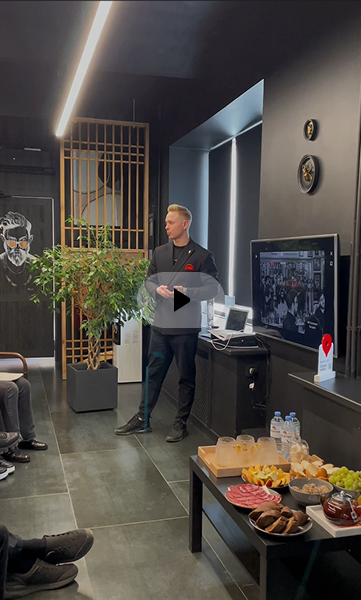
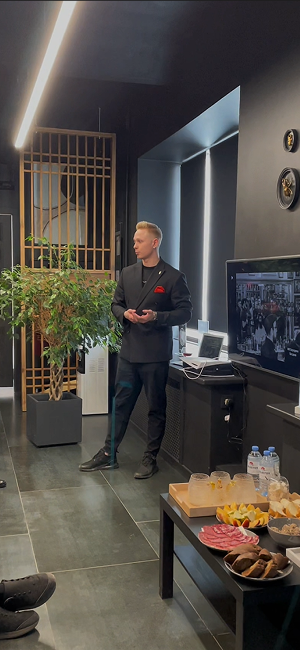
много правок во стилям

diff --git a/src/config/masterClasses.config.ts b/src/config/masterClasses.config.ts
@@ -1,7 +1,11 @@
 import video01 from '@/assets/video/masterClasses/01.mp4';
+import poster01 from '@img/masterClasses/01.png';
 import video02 from '@/assets/video/masterClasses/02.mp4';
+import poster02 from '@img/masterClasses/02.png';
 import video03 from '@/assets/video/masterClasses/03.mp4';
+import poster03 from '@img/masterClasses/03.png';
 import video04 from '@/assets/video/masterClasses/04.mp4';
+import poster04 from '@img/masterClasses/04.png';
 
 const masterClassesConfig = {
     title: 'Мастер-классы',
@@ -12,24 +16,28 @@ const masterClassesConfig = {
             video: video01,
             name: 'Old School и мужские стрижки в потоке',
             note: 'Мастер - класс от Богдана Бородина',
+            poster: poster01,
         },
         {
             id: 'mc02',
             video: video02,
             name: 'Сервис, как конкурентное преимущество',
             note: 'Мастер - класс от Ивана Трубачева',
+            poster: poster02,
         },
         {
             id: 'mc03',
             video: video03,
             name: 'Face Control',
             note: 'Мастер - класс Николая Генералова',
+            poster: poster03,
         },
         {
             id: 'mc04',
             video: video04,
             name: 'Reels, ведение контента',
             note: 'Мастер классс от Анж (блогер, Барбер)',
+            poster: poster04,
         },
     ],
 };

diff --git a/src/components/appVideo/appVideo.tsx b/src/components/appVideo/appVideo.tsx
@@ -1,11 +1,16 @@
-import { useRef, useState } from 'react';
+import { useEffect, useRef, useState } from 'react';
 import classes from './appVideo.module.scss';
 import playIcon from '@icons/play.png';
 import classNames from '@/shared/lib/classNames';
+import { useClickAway } from 'react-use';
 
-export const AppVideo = ({ video }) => {
+export const AppVideo = ({ video, poster }) => {
     const videoRef = useRef(null);
     const [isPlaying, setIsPlaying] = useState(false);
+
+    useClickAway(videoRef, () => {
+        videoRef.current.pause();
+    });
 
     const handlePlayClick = () => {
         if (videoRef.current) {
@@ -26,6 +31,9 @@ export const AppVideo = ({ video }) => {
                 onPlay={() => setIsPlaying(true)}
                 onPause={() => setIsPlaying(false)}
                 onClick={handlePlayClick}
+                poster={poster}
+                onWaiting={() => console.log('Ждем загрухкт видео')}
+                onCanPlay={() => console.log('Готово')}
             />
             <div
                 className={classNames(

diff --git a/src/components/footer/footer.tsx b/src/components/footer/footer.tsx
@@ -1,0 +1,18 @@
+import classes from './footer.module.scss';
+
+export const Footer = () => {
+    return (
+        <footer className={classes.footer}>
+            <div className="_container-default">
+                <div className={classes.text}>
+                    Вся представленная на сайте информация носит информационный
+                    характер и не является публичной офертой, определяемой
+                    положениями статьи <br /> 437 (2) ГК РФ. Все цены, указанные
+                    на данном сайте, носят информационный характер.
+                    Опубликованная на данном сайте информация может быть
+                    изменена в любое время без предварительного уведомления.
+                </div>
+            </div>
+        </footer>
+    );
+};

diff --git a/src/components/masterClasses/masterClasses.tsx b/src/components/masterClasses/masterClasses.tsx
@@ -12,11 +12,11 @@ export const MasterClasses = () => {
                 <Title>{title}</Title>
                 <div className={classes.subtitle}>{subtitle}</div>
                 <div className={classes.row}>
-                    {items.map(({ id, name, note, video }) => (
+                    {items.map(({ id, name, note, video, poster }) => (
                         <div key={id} className={classes.column}>
                             <div className={classes.item}>
                                 <div className={classes.video}>
-                                    <AppVideo video={video} />
+                                    <AppVideo video={video} poster={poster} />
                                 </div>
                                 <div className={classes.bodyWrapper}>
                                     <div className={classes.body}>

diff --git a/src/components/appVideo/appVideo.module.scss b/src/components/appVideo/appVideo.module.scss
@@ -1,5 +1,26 @@
 .videoWrapper {
     position: relative;
+    display: flex;
+    justify-content: center;
+
+    video {
+        &:hover {
+            cursor: pointer;
+        }
+    }
+
+    video[poster] {
+        width: 300px;
+        height: 533px;
+        object-fit: cover;
+    }
+
+    &:hover {
+        .playIcon {
+            background: rgba(236, 236, 236, 0.87);
+            transform: translate(-50%, -50%) scale(1.05);
+        }
+    }
 }
 .playIcon {
     position: absolute;
@@ -9,7 +30,7 @@
     height: 55px;
     border-radius: 50px;
     background: rgba(255, 255, 255, 0.34);
-    transform: translate(-50%, -50%);
+    transform: translate(-50%, -50%) scale(1);
     display: flex;
     justify-content: center;
     align-items: center;

diff --git a/src/components/masterClasses/masterClasses.module.scss b/src/components/masterClasses/masterClasses.module.scss
@@ -1,14 +1,15 @@
 @use '@var/colors';
+@use '@mixins/index';
 
 .masterClasses {
     margin-top: 100px;
 }
 .subtitle {
     font-weight: 700;
-    font-size: 24px;
     text-transform: uppercase;
     text-align: center;
     margin-top: 10px;
+    @include index.responsive-font(12, 24, 320, 992);
 }
 
 .video {
@@ -101,6 +102,7 @@
     }
     .name {
         text-align: center;
+        @include index.responsive-font(27, 40, 320, 992);
     }
     .note {
         text-align: center;
@@ -108,7 +110,7 @@
     .video {
         width: 100%;
         max-width: 400px;
-        height: 750px;
+        height: 630px;
         margin-top: 30px;
         video {
             object-fit: cover;

diff --git a/src/components/interior/interior.tsx b/src/components/interior/interior.tsx
@@ -3,13 +3,14 @@ import { Navigation, Pagination } from 'swiper/modules';
 import { SwiperSlide, Swiper } from 'swiper/react';
 import 'swiper/css';
 import interiorConfig from '@config/interior.config';
-// import 'swiper/css/navigation';
 import 'swiper/css/pagination';
 import classNames from '@/shared/lib/classNames';
+import { Title } from '@/components/shared/title';
 
 export const Interior = () => {
     return (
         <div className={classes.interior}>
+            <Title>Интерьер</Title>
             <Swiper
                 modules={[Navigation, Pagination]}
                 centeredSlides={true}

diff --git a/src/layouts/rootLayout.tsx b/src/layouts/rootLayout.tsx
@@ -9,6 +9,7 @@ import { Cosmetics } from '@/components/cosmetics';
 import { Certificates } from '@/components/certificates';
 import { MasterClasses } from '@/components/masterClasses';
 import { Contacts } from '@/components/contacts';
+import { Footer } from '@/components/footer';
 
 const RootLayout = () => {
     return (
@@ -25,6 +26,7 @@ const RootLayout = () => {
             <Certificates />
             <MasterClasses />
             <Contacts />
+            <Footer />
         </>
     );
 };

diff --git a/src/components/mainScreenPromo/mainScreenPromo.tsx b/src/components/mainScreenPromo/mainScreenPromo.tsx
@@ -15,9 +15,11 @@ export const MainScreenPromo = () => {
             <div className={classes.price}>
                 от <span>{price}</span> ₽
             </div>
-            <AppButton variant={ButtonVariants.GOLD_NON_RADIUS}>
-                {btnText}
-            </AppButton>
+            <a href="#services">
+                <AppButton variant={ButtonVariants.GOLD_NON_RADIUS}>
+                    {btnText}
+                </AppButton>
+            </a>
         </div>
     );
 };

diff --git a/src/components/mobileHeader/mobileHeader.tsx b/src/components/mobileHeader/mobileHeader.tsx
@@ -2,7 +2,6 @@ import classes from './mobileHeader.module.scss';
 import { BurgerIcon } from '@/components/burgerIcon/burgerIcon';
 import { useEffect, useState } from 'react';
 import { Logo } from '@/components/logo';
-
 import { MobileMenu } from '@/components/mobileMenu/mobileMenu';
 import classNames from '@/shared/lib/classNames';
 import { bodyLock } from '@/shared/lib/bodyLock';

diff --git a/src/components/header/header.tsx b/src/components/header/header.tsx
@@ -2,7 +2,6 @@ import classes from './header.module.scss';
 import useMatchMedia from '@/core/hooks/useMatchMedia';
 import { DesktopHeader } from '@/components/desktopHeader';
 import { MobileHeader } from '@/components/mobileHeader';
-import { useEffect } from 'react';
 import { useWindowScroll } from 'react-use';
 import classNames from '@/shared/lib/classNames';
 

diff --git a/src/components/logo/logo.module.scss b/src/components/logo/logo.module.scss
@@ -1,3 +1,5 @@
+@use '@mixins/index';
+
 .logo {
     font-size: 30px;
     display: flex;
@@ -27,5 +29,14 @@
     }
     .secondary {
         font-size: 9px;
+    }
+}
+
+@media (max-width: 375px) {
+    .primary {
+        @include index.responsive-font(18, 25, 320, 375);
+    }
+    .secondary {
+        @include index.responsive-font(7, 9, 320, 375);
     }
 }
